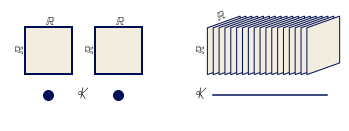
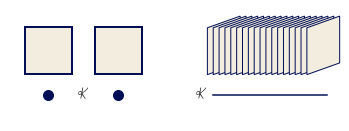
cleaned up fibers

diff --git a/paper/paper.tex b/paper/paper.tex
@@ -189,7 +189,7 @@ We introduce the notion of an artist $\mathscr{\vartist}$ as an equivariant map
     \label{eq:artist}
     \mathscr{\vartist}: \mathscr{\dtotal} \rightarrow \mathscr{\gtotal}
 \end{equation}
-from data $\mathscr{\dtotal}$ to graphic $\mathscr{\gtotal}$. To formalize the structure the artist is preserving, we describe how we model data (\ref{sec:math:data}) and graphics (\ref{sec:math:graphic}) as fiber bundles. We then discuss the equivariant maps that make up $\mathscr{\vartist}$, which are a map from  graphic continuity to data continuity (\ref{sec:math:graphic:base}), data components to visual components (\ref{sec:math:artist:nu}) and visual components to graphic (\ref{sec:math:artist:q}).
+from data $\mathscr{\dtotal}$ to graphic $\mathscr{\gtotal}$. To formalize the structure the artist is preserving, we describe how we model data (\autoref{sec:math:data}) and graphics (\autoref{sec:math:graphic}) as fiber bundles. We then discuss the equivariant maps that make up $\mathscr{\vartist}$, which are a map from  graphic continuity to data continuity (\autoref{sec:math:graphic:base}), data components to visual components (\autoref{sec:math:artist:nu}) and visual components to graphic (\autoref{sec:math:artist:q}).
 
 
 \subsection{Data Bundle}
@@ -201,16 +201,10 @@ Building on Butler's proposal of using fiber bundles as a common data representa
         \dfiber \arrow[r, hook] & \dtotal \arrow[r, "\pi"] & \dbase
     \end{tikzcd}
 \end{equation}
-that binds the components of the data in \dfiber\ to the continuity represented in \dbase. By definition fiber bundles are locally trivial\cite{spanier1989algebraic,LocallyTrivialFibre}, meaning that over a localized neighborhood $U$ the total space is the cartestian product $\dbase\times\dfiber$. 
+that binds the components of the data in \dfiber\ to the continuity represented in \dbase. By definition fiber bundles are locally trivial\cite{spanier1989algebraic,LocallyTrivialFibre}, meaning that over a localized neighborhood $U$ the total space is the cartesian product $\dbase\times\dfiber$. 
 
 \subsubsection{Fiber Space: Variables}
 \label{sec:math:data:fiber}
-\begin{figure}[htb]
-  \centering % avoid the use of \begin{center}...\end{center} and use \centering instead (more compact)
-  \includegraphics[width=\columnwidth]{fiber.png}
-  \caption{These two datasets have the same base space \dbase\ of discrete points, but the square is a visual representation of the fiber space  $\dfiber=\reals\times\reals$, while the cube is a representation of $\dfiber=\reals\times\realsp\times\reals$}
-  \label{fig:math:data:fiber}
-\end{figure}
 To formalize the structure of the data components, we use notation introduced by Spivak \cite{spivakSIMPLICIALDATABASES} that binds the components of the fiber to variable names. Spivak constructs a set \ftotal\ that is the disjoint union of all possible objects of types $\{\ftype_0, \ldots, \ftype_m\} \in \ftypes$, where \ftypes\ are the data types of the variables in the dataset. He then defines the single variable set \fttype\ 
 \begin{equation}
     \label{eq:data_types}
@@ -232,7 +226,15 @@ which is equivalent to
     \label{eq:math:data:fiber:decompose}
     \dfiber= \dfiber_{0} \times \ldots \times \dfiber_{i}\times\ldots\times \dfiber_{n}
 \end{equation}
-which allows us to decouple \dfiber\ into components $\dfiber_i$. Each component of \dfiber\ is a dimension of the topological fiber space, as illustrated in \autoref{fig:math:data:fiber}. The space $\dfiber=\reals\times\reals$ encodes that the dataset has two quantative continuous variables, while $\dfiber=\reals\times\reals\realsp$ encodes a dataset with three quantative contunous variables, one of which must be positive. 
+which allows us to decouple \dfiber\ into components $\dfiber_i$. Each component of \dfiber\ is a dimension of the topological fiber space and is specified by a tuple of the form (\fname, \ftype, \(\ftotal_{\fsection(\fname)}\)). 
+\begin{figure}[htb]
+  \centering 
+  \includegraphics[width=\columnwidth]{fiber.png}
+  \caption{These two datasets have the same base space \dbase. The plane is a representation of the fiber $\dfiber=\reals\times\reals$ for the variables (time, temperature),  while the cube is the fiber $\reals\times\realsp\times\reals$ associated with (time, wind=(speed, direction))}
+  \label{fig:math:data:fiber}
+\end{figure}
+In \autoref{fig:math:data:fiber} the plane fiber has components (\emph{time}, \texttt{datetime}, \reals) and (\emph{temperature}, \texttt{float}, \reals), while the cube fiber has components (\emph{time}, \texttt{datetime}, \reals) and (\emph{wind}, \texttt{wind}, \(\realsp\times\reals)\)) which encodes (\emph{speed}, \emph{direction}). 
+
 
 \subsubsection{Equivariant Variable Properties: Monoid Actions}
 \label{sec:math:data:monoid}
@@ -244,7 +246,7 @@ A monoid \cite{Monoid2021} $\monoid$ is a set with an associative binary operato
     \textbf{identity}\;& \text{for all } x\in \dfiber_i, e\in \monoid_i,\,  e\bullet x = x 
 \end{align*}
 As with the fiber \dfiber\, the total monoid space \monoid\ is the cartesian product
-\begin{equation}
+\begin{equation}\label{eq:math:data:monoid:decompose}
 \monoid= \monoid_{0} \times \ldots \times \monoid_{i}\times \ldots \times\ldots \monoid_{n}
 \end{equation}
 of each monoid $\monoid_{i}$ on $\dfiber_{i}$.  The monoid is also added to the specification of the fiber $(\fname_i,\, \ftype_i,\, \fttype\, \monoid_i)$
@@ -253,8 +255,8 @@ Defining the monoid actions on the components serves as the basis for identifyin
 
 \subsubsection{Base Space: Continuity}
 \label{sec:math:data:base}
- The base space \dbase\ is way to express how the records in \dtotal\ are connected to each other, for example if they are discrete points or if they lie in a 2D continous surface. Formally \dbase\ is the quotient space of \dtotal\, meaning it is the finest space\cite{aurouxMath131Introduction} such that every $\dbasepoint \in \dbase$ has a corresponding fiber $\dfiber_k$\cite{QuotientSpaceTopology2020}. Our model formulates \dbase\ as akin to an indexing space into \dtotal\ that describes the structure of \dtotal.  
- 
+ The base space \dbase\ acts as an indexing space, as emphasized by Butler\cite{butlerVectorBundleClassesForm1992,butlerVisualizationModelBased1989}, to express how the records in \dtotal\ are connected to each other and does not itself store any of the components of the data. For example, \dbase\ can encode that the timeseries data described in \autoref{sec:math:data:fiber} is continuous, but is doing so independent of the timestamps. Every $\dbasepoint \in \dbase$ has a corresponding fiber $\dfiber_k$ because \dbase\ is the quotient space\cite{QuotientSpaceTopology2020,aurouxMath131Introduction} of \dtotal. 
+
  \begin{figure}[htb]
   \centering % avoid the use of \begin{center}...\end{center} and use \centering instead (more compact)
   \includegraphics[width=\columnwidth]{base.png}
@@ -262,12 +264,11 @@ Defining the monoid actions on the components serves as the basis for identifyin
   \label{fig:math:data:base}
  \end{figure}
 
- As illustrated in ~\autoref{fig:math:data:base}, \dbase\ can have any number of dimensions, can be continuous or discrete, and is somewhat independent of the dimensions of the fiber. As with fibers and monoids, we can decompose the total space into components $\pi:\dtotal_i\rightarrow \dbase$ where
- \begin{equation}
-    \label{eq:math:data:base:decompose}
+ As illustrated in ~\autoref{fig:math:data:base}, \dbase\ can have any number of dimensions, can be continuous or discrete, and is somewhat independent of the dimensions of the fiber. As with \autoref{eq:math:data:fiber:decompose} and \autoref{eq:math:data:monoid:decompose},  we can decompose the total space into component bundles
+ \begin{equation}\label{eq:math:data:base:decompose}
      \pi:\dtotal_1\oplus\ldots\oplus \dtotal_i \oplus\ldots \oplus \dtotal_n \rightarrow \dbase
  \end{equation}
- which is a decomposition of \dfiber. The \dbase\ remains the same because the connectivity of records does not change just because there are fewer elements in each record. By encoding this continuity in the model as \dbase\, the data model now explicitly carries information about its structure such that the implicit assumptions of the visualization algorithms are now explicit. The explicit topology is a concise way of distinguishing visualizations that appear identical, for example heatmaps and images.  
+ such that \(\monoid_{i}\) acts on component bundle \(\dtotal_i\). The \dbase\ remains the same because the connectivity of records does not change just because there are fewer components in each record. By encoding this continuity in the model as \dbase\, the data model now explicitly carries information about its structure such that the implicit assumptions of the visualization algorithms are now explicit. The explicit topology is a concise way of distinguishing visualizations that appear identical, for example heatmaps and images.  
 
  \subsubsection{Section: Values}
  \label{sec:math:data:section}
@@ -318,7 +319,7 @@ We introduce a graphic bundle to hold the essential information necessary to ren
                         \& \gbase \arrow[u, "\gsection"', bend right]
   \end{tikzcd}
 \end{equation}
-where \gsection\ is the fully encoded graphic. To fully specify the visual characteristics of the image, we construct a fiber \gfiber\ that is an infinite resolution version of the target space. Typically \gtotal\ is trivial and therefore sections can be thought of as mappings into \gfiber. In this work, we assume a 2D opaque image $\gfiber=\reals^5$ with elements $(x,\, y,\, r,\, g,\, b) \in \gfiber$ such that a rendered graphic only consists of 2D position and color. By abstracting the target display space as \gfiber, the model can support different targets, such as a 2D screen or 3D printer. 
+where \gsection\ is a fully specified graphic such that it is an abstraction of rendering. To fully specify the visual characteristics of the image, we construct a fiber \gfiber\ that is an infinite resolution version of the target space. Typically \gtotal\ is trivial and therefore sections can be thought of as mappings into \gfiber. In this work, we assume a 2D opaque image $\gfiber=\reals^5$ with elements $(x,\, y,\, r,\, g,\, b) \in \gfiber$ such that a rendered graphic only consists of 2D position and color. By abstracting the target display space as \gfiber, the model can support different targets, such as a 2D screen or 3D printer. 
 
 \subsubsection{Equivariant Topology: Graphic Base Space}
 \label{sec:math:graphic:base}
@@ -336,33 +337,35 @@ Just as the \dbase\ encodes the connectivity of the records in the data, we prop
         \dbase                   & \gbase \arrow[l, "\vindex"']
     \end{tikzcd}
 \end{equation}
-goes from region $\gbasepoint \in \gbase_{\dbasepoint}$ to its associated point $\gbasepoint$. While \gbase\ must have the same continuity as \dbase\, it is sometimes the  thickened version shown in \autoref{fig:math:graphic:base}. This thickening is necessary when the dimensionality of \dbase\ is less than the dimensionality of the target display. For example, a \dbasepoint\ that is 0D in \dbase\ cannot be represented on screen unless it is thickened to 2D to encode the connectivity of the points in \gfiber\ that visually represent the record at \dbasepoint. 
+goes from region $\gbasepoint \in \gbase_{\dbasepoint}$ to its associated point $\gbasepoint$. While \gbase\ must have the same continuity as \dbase\, it is sometimes the  thickened version shown in \autoref{fig:math:graphic:base}. This thickening is necessary when the dimensionality of \dbase\ is less than the dimensionality of the target display. For example, a \dbasepoint\ that is 0D in \dbase\ cannot be represented on screen unless it is thickened to 2D to encode the connectivity of the points in \gfiber\ that visually represent the record at \dbasepoint. The \vindex\ mapping is critical to interactive visualizations as it is the map from a region on screen to the data associated with that region. One example is to fill in details in a hover tooltip, another is to convert region selection on \gbase\ to a query on the data to access the corresponding record components on \dbase.
 
 \subsection{Artist}
-The topological artist \vartist\ is a monoid equivariant sheaf map from the sheaf on a data bundle \dtotal\ which is $\mathcal{O}(\dtotal)$ to the sheaf on the graphic bundle \gtotal, $\mathcal{O}(\gtotal)$. 
+The topological artist \vartist\ is a map from the sheaf on a data bundle \dtotal\ which is $\mathcal{O}(\dtotal)$ to the sheaf on the graphic bundle \gtotal, $\mathcal{O}(\gtotal)$. 
 \begin{equation}
     \vartist: \mathcal{O}(\dtotal) \rightarrow \mathcal{O}(\gtotal)
 \end{equation}
-While \vartist\ can usually construct graphical elements solely with the data in \dsection, some visualizations, such as line, may also need some finite number $n$ of derivatives, which is captured by the jet bundle $\mathcal{J}^n$ \cite{JetBundle2020,musilovaCalculusVariationsJet2016} with $\mathcal{J}^{0}(\dtotal)=\dtotal$. In this work, we at most need $\mathcal{J}^{2}(\dtotal)$ which is the value at \dsection\ and its first and second derivatives; therefore the artist takes as input the jet bundle $\dtotal^{\prime}=\mathcal{J}^{2}(\dtotal)$. 
+that carries a homomorphism of monoid actions $\varphi: \monoid \rightarrow \monoid^{\prime}$ \cite{cegarraCohomologyMonoidsOperators2019}. Given \monoid\ on data $\mathscr{\dtotal}$ and $\monoid^{\prime}$ on graphic $\mathscr{\gtotal}$, we propose that artists $\mathscr{\vartist}$ are equivariant maps 
+\begin{equation}
+\vartist(m\cdot \delement) = \varphi(m)\cdot \vartist(\delement) 
+\end{equation}
+such that applying a monoid action $m \in \monoid$ to the data $\delement \in \mathscr{\dtotal}$ input to $\mathscr{\vartist}$ is equivalent to applying a monoid action $\varphi(\monoid) \in \monoid^{\prime}$ to the graphic $\vartist(\delement) \in \mathscr{\gtotal}$ output of the artist.
 
-Specifically, \vartist\ is the equivariant map from $\dtotal^{\prime}$ to a specific graphic $\gsection \in \Gamma(H)$ 
+The monoid equivariant map has two stages: the encoders $\vchannel:\dtotal^{\prime} \rightarrow \vtotal$ convert the data components to visual components, and the assembly function $\vmark: \vtotalpull \rightarrow \gtotal$ composites the fiber components of \vtotalpull\ into a graphic in \gtotal.
 \begin{equation}
     \label{eq:math:artist:diagram}
     \begin{tikzcd}
-        \dtotal^{\prime} \arrow[r, "\vchannel"] \arrow[rd, "\pi"'] & \vtotal \arrow[d, "\pi"] & \vindex^*\vtotal \arrow[r, "\vmark"] \arrow[d, "\vindex^*\pi"'] \arrow[l, "\vindex^*"'] & \gtotal \arrow[ld, "\pi"] \\
+        \dtotal \arrow[r, "\vchannel"] \arrow[rd, "\pi"'] & \vtotal \arrow[d, "\pi"] & \vindex^*\vtotal \arrow[r, "\vmark"] \arrow[d, "\vindex^*\pi"'] \arrow[l, "\vindex^*"'] & \gtotal \arrow[ld, "\pi"] \\
                                               & \dbase                  & \gbase \arrow[l, "\vindex"']                                              &                    
         \end{tikzcd}
 \end{equation}
-where the input can be point wise $\dsection(\dbasepoint)\mid \dbasepoint \in \dbase$. The visual bundle $(\vtotal,\,\dbase,\,\pi ,\,\vfiber)$ is the latent space of possible parameters of a visualization type, such as a scatter or line plot. As with the data and graphic bundles, the visual bundle is  defined by the projection map $\pi$
+\vtotalpull\ is the visual bundle \vtotal\ pulled back over \gbase\ via the equivariant continuity map $\vindex:\gbase \rightarrow \dbase$ introduced in \autoref{sec:math:graphic:base}. The visual bundle $(\vtotal,\,\dbase,\,\pi ,\,\vfiber)$ is the latent space of possible parameters of a visualization type, such as a scatter or line plot. As with the data and graphic bundles, the visual bundle is defined by the projection map $\pi$
 \begin{equation}
     \begin{tikzcd}[ampersand replacement=\&]
         \vfiber \arrow[r, hook] \& \vtotal \arrow[d, "\pi"'] \\
                           \& \dbase \arrow[u, "\vsection"', bend right]
     \end{tikzcd}
 \end{equation}
-where \vsection\ is the visual variable encoding\cite{bertinSemiologyGraphicsDiagrams2011a} of the data section \dsection. The visual fiber \vfiber\ is defined in terms of the input parameters of the visualization library's plotting functions; by making these parameters explicit components of the fiber, we can build consistent definitions and expectations of how these parameters behave. 
-
-In \autoref{eq:math:artist:diagram}, the encoders $\vchannel:\dtotal^{\prime} \rightarrow \vtotal$ convert the data components to visual components. The continuity map $\vindex:\gbase \rightarrow \dbase$ then pulls back the visual bundle \vtotal\ over \gbase. Then the assembly function $\vmark: \vtotalpull \rightarrow \gtotal$ composites the fiber components of \vtotalpull\ into a graphic in \gtotal. This functional decomposition of the visualization artist facilitates building reusable components at each stage of the transformation because the equivariance constraints are defined on \vchannel, \vmark, and \vindex. We name this map the artist as that is the analogous part of the  Matplotlib\cite{hunterArchitectureOpenSource} architecture that builds visual elements.
+where \vsection\ is the visual variable encoding\cite{bertinSemiologyGraphicsDiagrams2011a} of the data section \dsection. The visual fiber \vfiber\ is defined in terms of the input parameters of the visualization library's plotting functions; by making these parameters explicit components of the fiber, we can build consistent definitions and expectations of how these parameters behave. The functional decomposition of the visualization artist facilitates building reusable components at each stage of the transformation because the equivariance constraints are defined on \vchannel, \vmark, and \vindex. We name this map the artist as that is the analogous part of the  Matplotlib\cite{hunterArchitectureOpenSource} architecture that builds visual elements.
 
 \subsubsection{Visual Component Maps}
 \label{sec:math:artist:nu}
@@ -457,7 +460,7 @@ In \autoref{fig:teaser}, we illustrate the output of a minimal Q that will gener
 x &= size *\alpha \cos(\beta) + xpos \\
 y &= size *\alpha \sin(\beta) + ypos
 \end{align*}
-such that $\gsection(\gbasepoint) = (x, y, 0, 0, 0)$ colors the point (x,y) black. In contrast, the line plot $\vmark(xpos, \hat{n_{1}}, ypos, \hat{n_{2}})(\alpha, \beta)$ in \autoref{fig:teaser} has a \vindex\ function that is not only parameterized on \dbasepoint\ but also on the $\alpha$ distance along \dbasepoint\ and corresponding region in \gbase. As shown in \ref{fig:math:arist:base} line needs to know the tangent of the data to draw an envelope above and below each (xpos,ypos) such that the line appears to have a thickness. The magnitude of the slope is $\lvert n \rvert = \sqrt{{n_{1}}^2 + {n_{2}}^2}$
+such that $\gsection(\gbasepoint) = (x, y, 0, 0, 0)$ colors the point (x,y) black. In contrast, the line plot $\vmark(xpos, \hat{n_{1}}, ypos, \hat{n_{2}})(\alpha, \beta)$ in \autoref{fig:teaser} has a \vindex\ function that is not only parameterized on \dbasepoint\ but also on the $\alpha$ distance along \dbasepoint\ and corresponding region in \gbase. As shown in \autoref{fig:math:artist:base}, line needs to know the tangent of the data to draw an envelope above and below each (xpos,ypos) such that the line appears to have a thickness; therefore the artist takes as input the jet bundle \cite{JetBundle2020,musilovaCalculusVariationsJet2016} $\mathcal{J}^{2}(\dtotal)$ which is the data \dtotal\ and the first and second derivatives of \dtotal. The magnitude of the slope is $\lvert n \rvert = \sqrt{{n_{1}}^2 + {n_{2}}^2}$
 such that the normal is  $\hat{n_{1}} = \frac{n_1}{\lvert n \rvert}, \; \hat{n_{2}} = \frac{n_2}{\lvert n \rvert}$ which yields components of \gsection\
 \begin{align*}
  x = xpos(\vindex(\alpha)) &+ width*\beta\hat{n_1}(\vindex(\alpha)) \\
@@ -472,8 +475,8 @@ R = R(\vindex(\alpha, \beta)), \; G = G(\vindex(\alpha, \beta)), \; B = B(\vinde
 In the case of an image, the indexing mapper \vindex\ may do some translating to a convention expected by \vmark, for example reorientng the array such that the first row in the data is at the bottom of the graphic. 
 
 \subsubsection{Assembly Factory}
-\label{sec:math:artis:qhat}
-The graphic base space \gbase\ is not accessible in many architectures, including Matplotlib; instead we can construct a factory function \vmarkd\ over \dbase\ that can build a \vmark. As shown in eq~\ref{eq:math:artist:diagram}, \vmark\ is a bundle map $\vmark: \vtotalpull\rightarrow \gtotal$ where \vtotalpull\ and \gtotal\ are both bundles over \gbase.
+\label{sec:math:artist:qhat}
+The graphic base space \gbase\ is not accessible in many architectures, including Matplotlib; instead we can construct a factory function \vmarkd\ over \dbase\ that can build a \vmark. As shown in \autoref{eq:math:artist:diagram}, \vmark\ is a bundle map $\vmark: \vtotalpull\rightarrow \gtotal$ where \vtotalpull\ and \gtotal\ are both bundles over \gbase.
 \begin{figure}[htb]
   \centering
     \includegraphics[width=1\columnwidth]{q_hat.png}
@@ -501,7 +504,7 @@ Given the equivalence between \vsection\ and \vsectionpull\ defined above, the r
 \end{equation} 
 where \vmarkd\ with input \vsection\ is defined to \vmark\ that takes as input the copied section \vsectionpull\ such that both functions are evaluated over the same location $\vpreimg = \gbasepoint$ in the base space \gbase. 
 
-Factoring out \gbasepoint\ from equation~\ref{eq:math:artist:qhat_q_s} yields $\vmarkd(\vsection(k)) = \vmark(\vsectionpull)$ where \vmark\ is no longer bound to input but \vmarkd\ is still defined in terms of \dbase. In fact, \vmarkd\ is a map from visual space to graphic space $\vmarkd:\Gamma(\vtotal) \rightarrow \Gamma(\gtotal)$ locally over \dbasepoint\ such that it can be evaluated on a single visual record  $\vmarkd:\Gamma(\vtotal_{\dbasepoint}) \rightarrow \Gamma(\gtotal\mid_{\vpreimg})$. This allows us to construct a \vmarkd\ that only depends on \dbase, such that for each $\vsection(\dbasepoint)$ there is part of $\gsection\mid_{\vpreimg}$. The construction of \vmarkd\ allows us to retain the functional map reduce benefits of \vmark\ without having to majorly restructure the existing pipeline for libraries that delegate the construction of \gsection\ to a back end such as Matplotlib.
+Factoring out \gbasepoint\ from \autoref{eq:math:artist:qhat_q_s} yields $\vmarkd(\vsection(k)) = \vmark(\vsectionpull)$ where \vmark\ is no longer bound to input but \vmarkd\ is still defined in terms of \dbase. In fact, \vmarkd\ is a map from visual space to graphic space $\vmarkd:\Gamma(\vtotal) \rightarrow \Gamma(\gtotal)$ locally over \dbasepoint\ such that it can be evaluated on a single visual record  $\vmarkd:\Gamma(\vtotal_{\dbasepoint}) \rightarrow \Gamma(\gtotal\mid_{\vpreimg})$. This allows us to construct a \vmarkd\ that only depends on \dbase, such that for each $\vsection(\dbasepoint)$ there is part of $\gsection\mid_{\vpreimg}$. The construction of \vmarkd\ allows us to retain the functional map reduce benefits of \vmark\ without having to majorly restructure the existing pipeline for libraries that delegate the construction of \gsection\ to a back end such as Matplotlib.
 
 \subsubsection{Composite and Reusable Artists}
 Given the family of artists $(\dtotal_i: i\in I)$ on the same image, the + operator 
@@ -652,7 +655,7 @@ into a data structure that the artist can unpack via data component name.
 \caption{Continuous and discontinuous lines as defined via the same data model, and generated with the same \vartisteq \mintinline{python}{Line}}
 \label{fig:code:multilines}
 \end{figure}
-The graphics in figure~\ref{fig:code:multilines} are made using the \mintinline{python}{Line} artist and the \mintinline{python}{Graphline} data source where if told that the data is connected, the data source will check for that connectivity by constructing an adjacency matrix. The multicolored line is a connected graph of edges with each edge function evaluated on 1000 samples, 
+The graphics in figure \autoref{fig:code:multilines} are made using the \mintinline{python}{Line} artist and the \mintinline{python}{Graphline} data source where if told that the data is connected, the data source will check for that connectivity by constructing an adjacency matrix. The multicolored line is a connected graph of edges with each edge function evaluated on 1000 samples, 
 \begin{minted}{python}
 simplex.GraphLine(FB, edges, verticies, 
                       num_samples=1000, connect=True)

diff --git a/draft/sections/math.tex b/draft/sections/math.tex
@@ -16,7 +16,7 @@ that carries a homomorphism of monoid actions $\varphi: \monoid \rightarrow \mon
 \end{equation}
 such that applying a monoid action $m \in \monoid$ to the data $\delement \in \mathscr{\dtotal}$ input to $\mathscr{\vartist}$ is equivalent to applying a monoid action $\varphi(\monoid) \in \monoid^{\prime}$ to the graphic $\vartist(\delement) \in \mathscr{\gtotal}$ output of the artist.
 
-We model the data $\mathscr{\dtotal}$, graphic $\mathscr{\gtotal}$, and intermediate visual encoding $\mathscr{\vtotal}$ stages of visualization as topological structures that encapsulate types of variables and continuity; by doing so we can develop implementations that keep track of both in ways that let us distribute computation while still allowing assembly and dynamic update of the graphic. To explain which structure the artist is preserving, we first describe how we model data (\ref{sec:data}), graphics (\ref{sec:graphic}), and intermediate visual characteristics (\ref{sec:artist}) as fiber bundles. We then discuss the equivariant maps between data and visual characteristics (\ref{sec:artist_nu}) and visual characteristics and graphics (\ref{sec:artist_q}) that make up the artist.
+We model the data $\mathscr{\dtotal}$, graphic $\mathscr{\gtotal}$, and intermediate visual encoding $\mathscr{\vtotal}$ stages of visualization as topological structures that encapsulate types of variables and continuity. To explain which structure the artist is preserving, we first describe how we model data (\ref{sec:data}), graphics (\ref{sec:graphic}), and intermediate visual characteristics (\ref{sec:artist}) as fiber bundles. We then discuss the equivariant maps between data and visual characteristics (\ref{sec:artist_nu}) and visual characteristics and graphics (\ref{sec:artist_q}) that make up the artist.
 
 \subsection{Data Space \dtotal}
 \label{sec:data}

diff --git a/paper/scraps.tex b/paper/scraps.tex
@@ -5,3 +5,4 @@
     \label{fig:data_partial_order}
   \end{figure}
   
+

diff --git a/notes/plan.md b/notes/plan.md
@@ -9,9 +9,9 @@ March 27-29, April 2-4
 ## Tasks
 ### Paper: https://github.com/story645/proposal/projects/5
 V0: Monday 15 latest
-- [ ] drop figures into template
-- [ ] pare content down into template
-- [ ] copy edit so is coherant
+- [x] drop figures into template
+- [x] pare content down into template
+- [x] copy edit so is coherant
 
 V0.1: Thur 18 (drop into MPL meeting, possibly send to committee for feedback)
 - [ ] adjust abstract based on content
